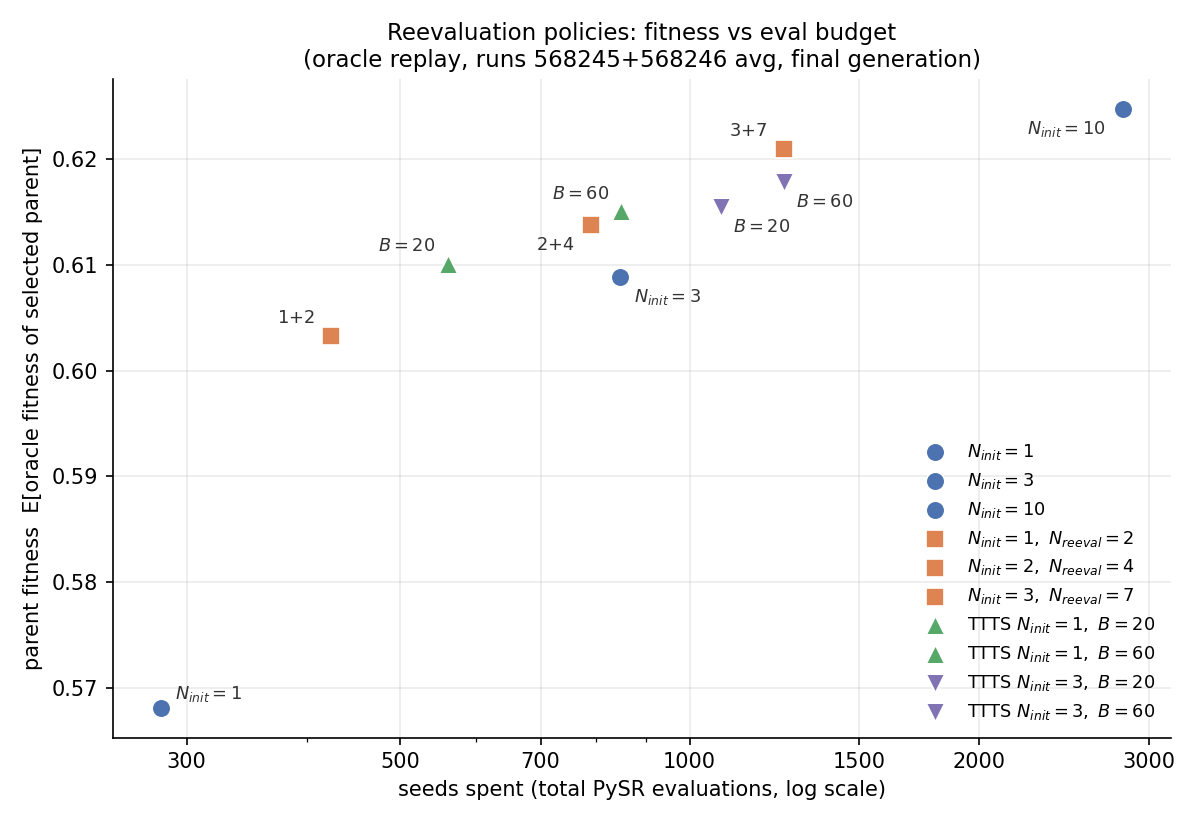
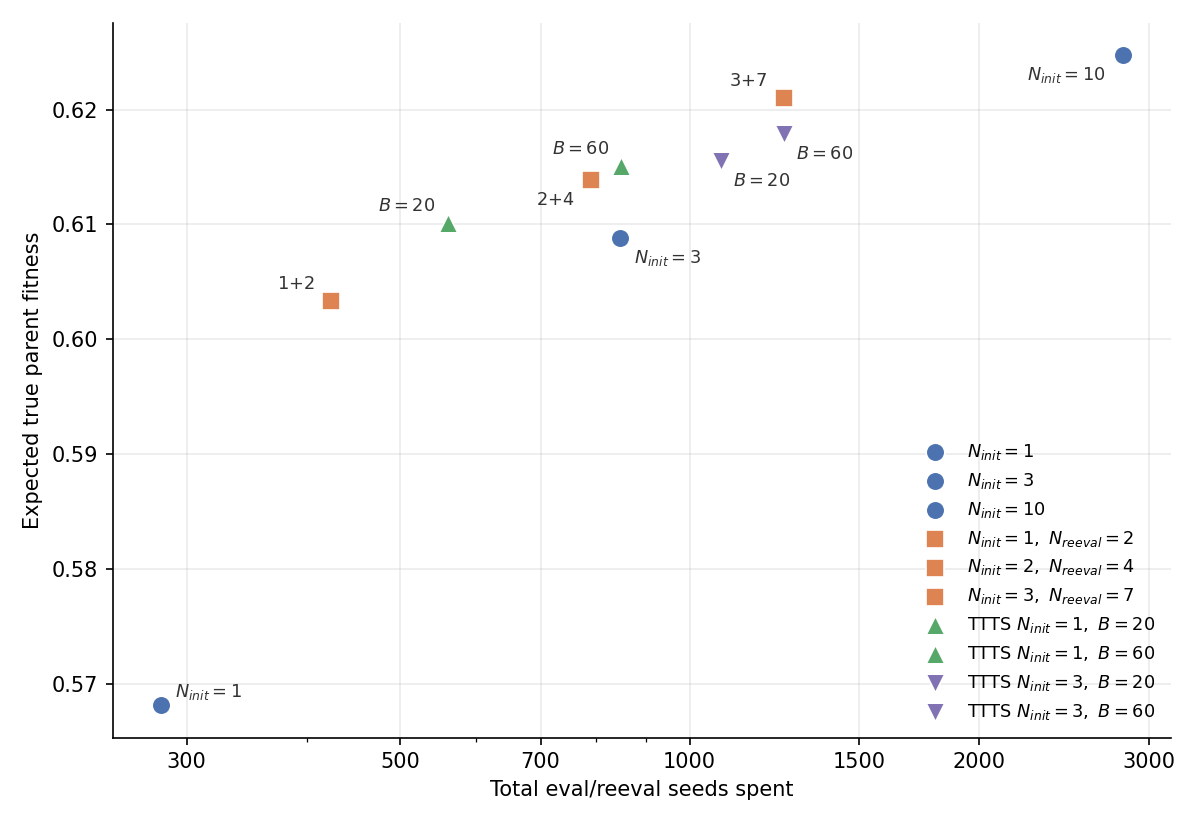
Reeval plot: drop title, rename axes

diff --git a/figures/plot_reeval_fitness_vs_seeds.py b/figures/plot_reeval_fitness_vs_seeds.py
@@ -51,10 +51,8 @@ for label, (cat, legend, short) in POL.items():
 ax.set_xscale("log")
 ax.set_xticks([300, 500, 700, 1000, 1500, 2000, 3000])
 ax.get_xaxis().set_major_formatter(matplotlib.ticker.ScalarFormatter())
-ax.set_xlabel("seeds spent (total PySR evaluations, log scale)")
-ax.set_ylabel("parent fitness  E[oracle fitness of selected parent]")
-ax.set_title("Reevaluation policies: fitness vs eval budget\n"
-             "(oracle replay, runs 568245+568246 avg, final generation)", fontsize=11)
+ax.set_xlabel("Total eval/reeval seeds spent")
+ax.set_ylabel("Expected true parent fitness")
 ax.grid(alpha=0.25)
 for sp in ("top", "right"):
     ax.spines[sp].set_visible(False)
